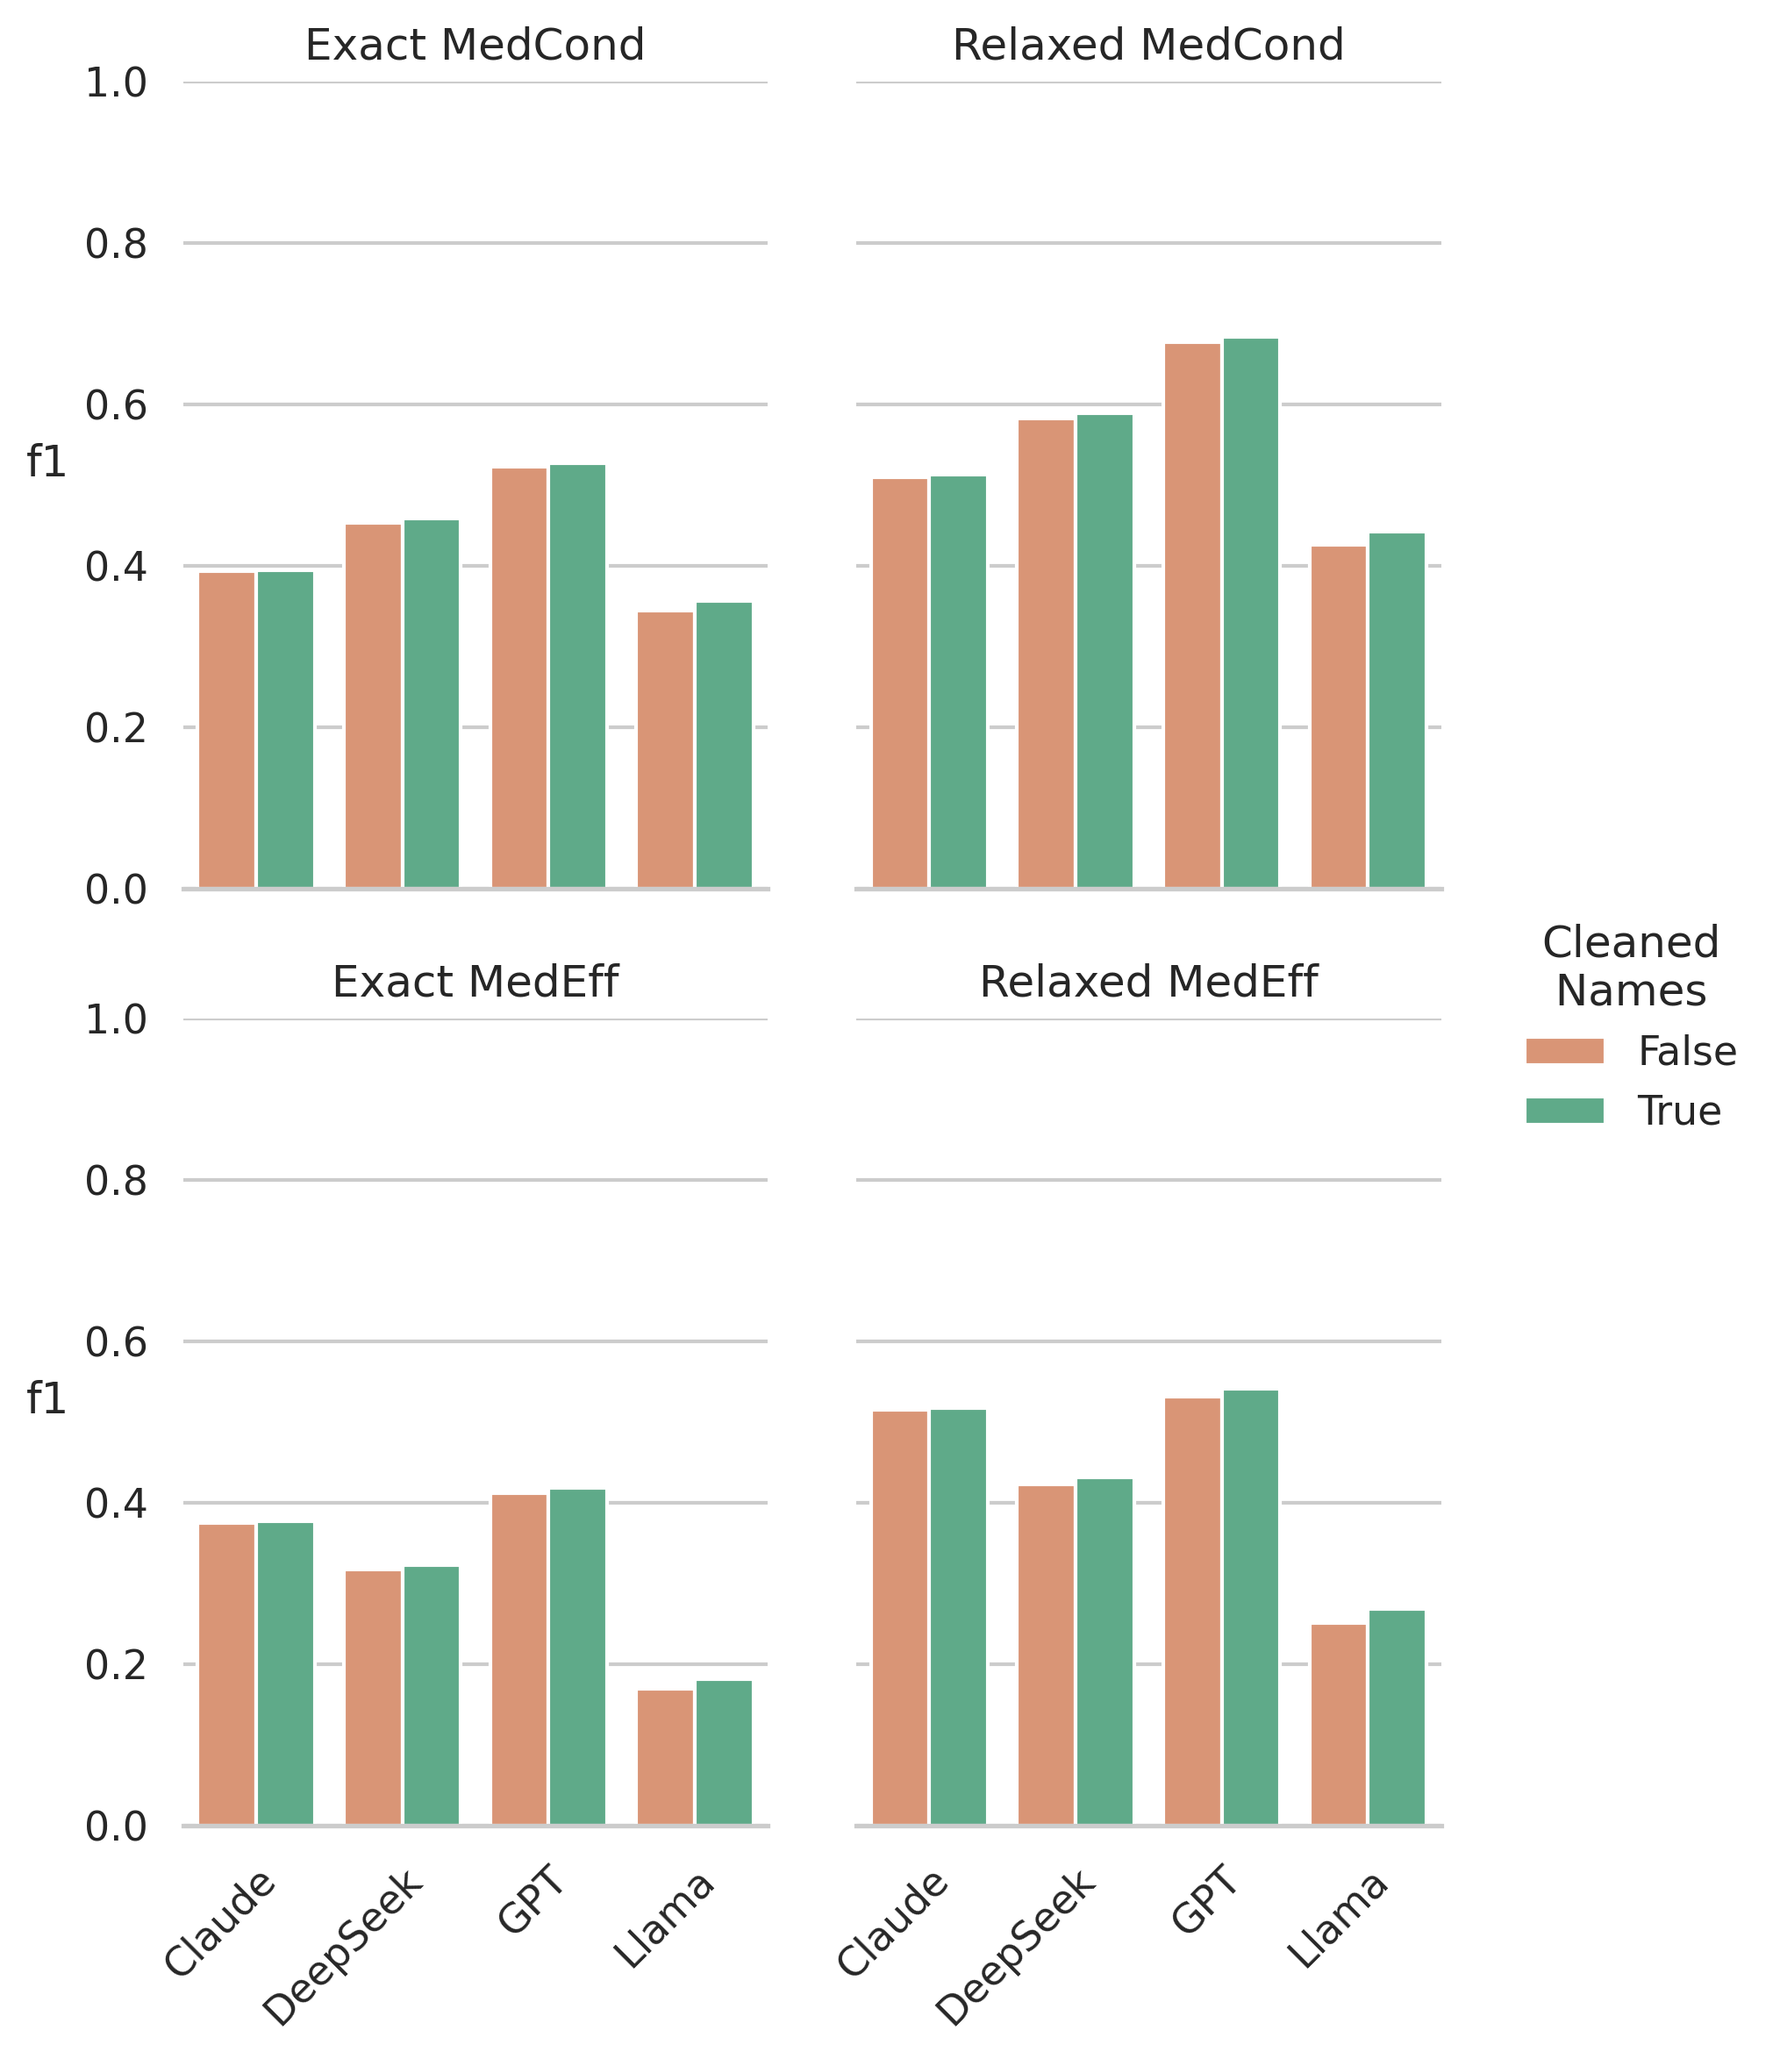
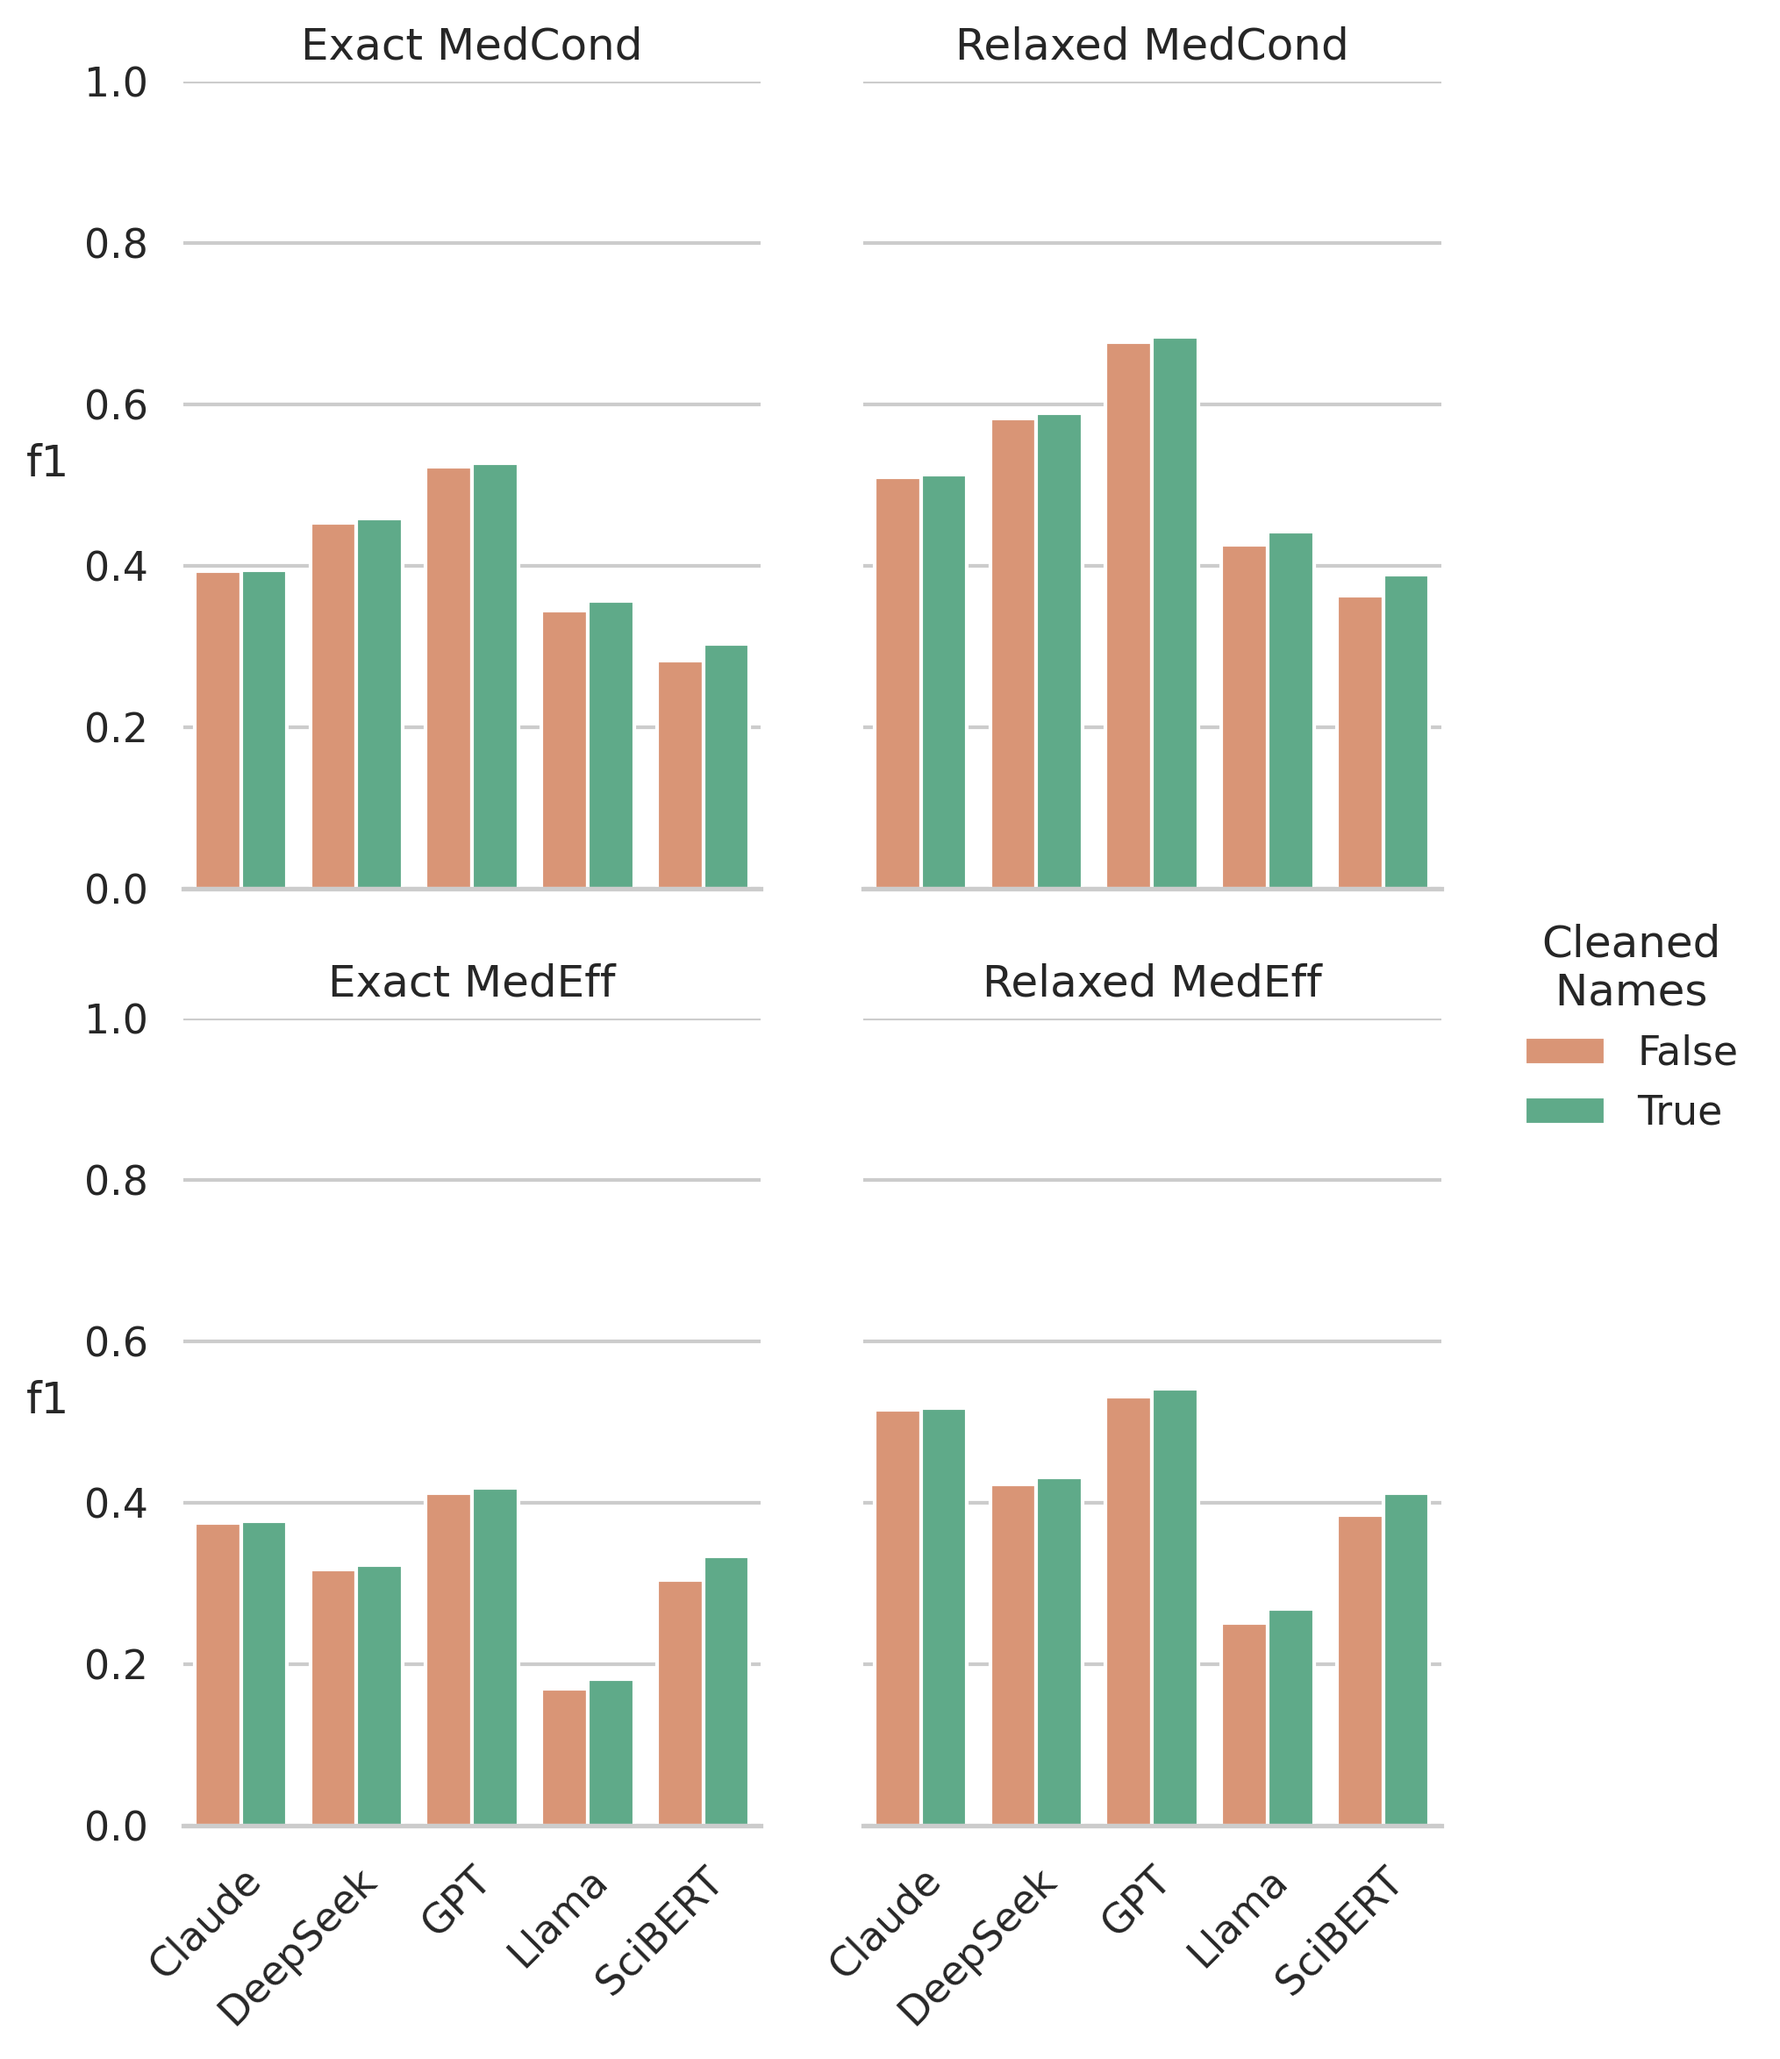
Add scibert plots

diff --git a/LLM_models/evaluating/make_nice_plots.py b/LLM_models/evaluating/make_nice_plots.py
@@ -31,7 +31,9 @@ def get_filenames():
                 'en_ner_eco_biobert_autoremove_non_sci_names_results.csv': 'TaxoNERD_NS',
                 'en_ner_eco_biobert_results.csv': 'TaxoNERD',
                 'ft_gpt-4o-2024-08-06_personal__BHfNoQa3_results.csv': 'FTGPT',
-                'ft_gpt-4o-2024-08-06_personal__BHfNoQa3_autoremove_non_sci_names_results.csv': 'FTGPT_NS'}
+                'ft_gpt-4o-2024-08-06_personal__BHfNoQa3_autoremove_non_sci_names_results.csv': 'FTGPT_NS',
+                'scibert_autoremove_non_sci_names_results.csv': 'SciBERT_NS',
+                'scibert_results.csv': 'SciBERT'}
     fileNames = os.listdir(os.path.join('outputs', 'full_eval'))
     model_names = [c[:c.index('_results.csv')] for c in renaming.keys() if 'autoremove_non_sci_names' not in c]
     return fileNames, renaming, model_names
@@ -123,12 +125,12 @@ def plots():
     #
     # #
     # ## NER
-    _models = ['Claude', 'DeepSeek', 'GNfinder', 'GPT', 'Llama', 'TaxoNERD']
+    _models = ['Claude', 'DeepSeek', 'GNfinder', 'GPT', 'Llama', 'TaxoNERD', 'SciBERT']
     measures = ['Precise NER', 'Approx. NER']
     for_full_eval(_models, measures, 'NER')
     #
     # # ## RE
-    _models = ['Claude', 'DeepSeek', 'GPT', 'Llama']
+    _models = ['Claude', 'DeepSeek', 'GPT', 'Llama', 'SciBERT']
     measures = ['Precise MedCond', 'Approx. MedCond', 'Precise MedEff', 'Approx. MedEff']
     for_full_eval(_models, measures, 'RE')
     for_full_eval(_models, ['Precise MedCond', 'Approx. MedCond'], 'MedCond')
@@ -141,7 +143,7 @@ def plots():
 
 if __name__ == '__main__':
     all_measures = ['Precise NER', 'Approx. NER', 'Precise MedCond', 'Approx. MedCond', 'Precise MedEff', 'Approx. MedEff']
-    all_models = ['Claude', 'DeepSeek', 'GNfinder', 'GPT', 'FTGPT', 'Llama', 'TaxoNERD']
+    all_models = ['Claude', 'DeepSeek', 'GNfinder', 'GPT', 'FTGPT', 'Llama', 'TaxoNERD', 'SciBERT']
     metrics = ['f1', 'precision', 'recall']
 
     plots()
